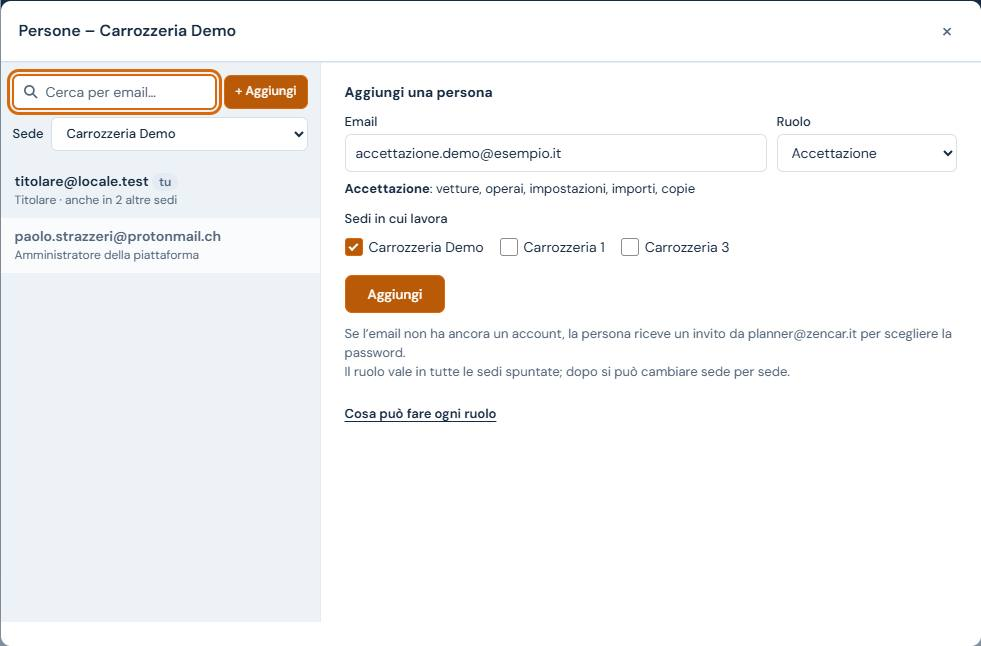
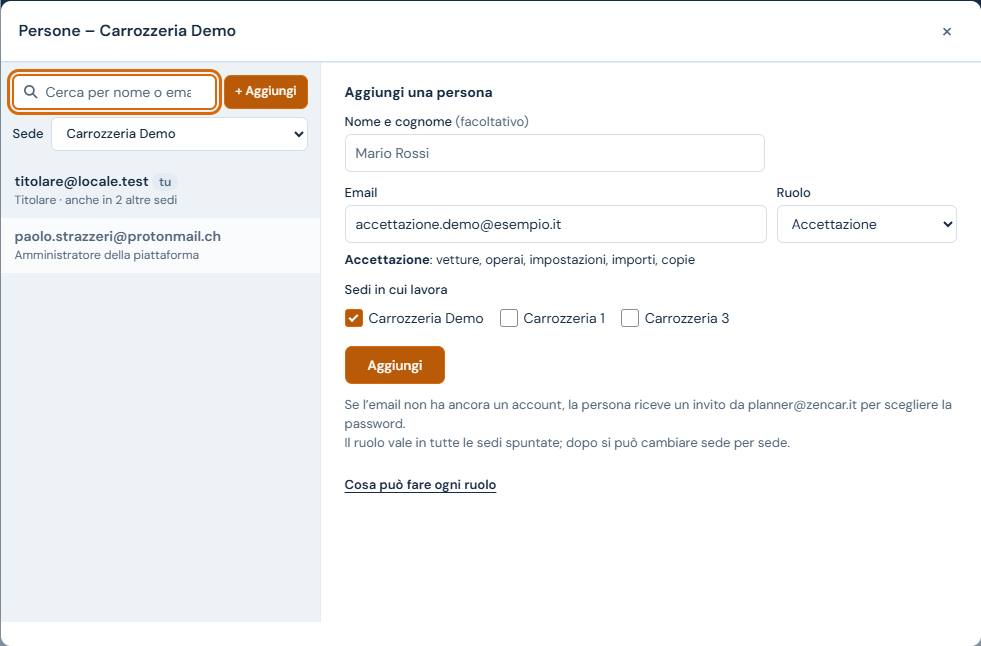
Planner 0.26.0: nome delle persone, simulazione dei ruoli per l'amministratore

diff --git a/planner/accesso.js b/planner/accesso.js
@@ -34,7 +34,10 @@ const Accesso = (() => {
     gestore: 'supervisiona dal Gestore e scrive i messaggi; nella carrozzeria vede tutto, importi compresi, senza modificare'
   };
   const PW_MIN = 10;
-  const S = { utente: null, voci: [], menu: null, modifica: null, msg: '', ok: '', admin: false };
+  const S = { utente: null, voci: [], menu: null, modifica: null, msg: '', ok: '', admin: false, nome: '', simula: '' };
+  // simulazione (2026-11-06): l'amministratore vede il planner come un altro ruolo, senza salvare; vale per la scheda del browser
+  const SIMULA = 'zencar-simula';
+  const simula = v => { try { if (v) sessionStorage.setItem(SIMULA, v); else sessionStorage.removeItem(SIMULA); } catch (e) { } location.reload(); };
   const esc = s => String(s ?? '').replace(/[&<>"']/g, c => ({ '&': '&amp;', '<': '&lt;', '>': '&gt;', '"': '&quot;', "'": '&#39;' }[c]));
   const indirizzo = () => location.origin + location.pathname;
   const voce = id => S.voci.find(s => s.id === id);
@@ -173,9 +176,10 @@ const Accesso = (() => {
 
   /* ---------------------------------------------- elenco delle carrozzerie */
   async function caricaElenco() {
-    const [{ data, error }, adm] = await Promise.all([sb.from('membri').select('ruolo, carrozzerie(id, numero, nome, eliminata_il)').eq('user_id', S.utente.id), sb.rpc('sono_amministratore')]);
+    const [{ data, error }, adm, nome] = await Promise.all([sb.from('membri').select('ruolo, carrozzerie(id, numero, nome, eliminata_il)').eq('user_id', S.utente.id), sb.rpc('sono_amministratore'), sb.rpc('mio_nome')]);
     if (error) throw error;
-    S.admin = adm.data === true;
+    S.admin = adm.data === true; S.nome = nome.data || '';
+    try { const r = sessionStorage.getItem(SIMULA) || ''; S.simula = S.admin && RUOLI[r] ? r : ''; } catch (e) { S.simula = ''; }
     S.voci = data.filter(r => r.carrozzerie).map(r => Object.assign({}, r.carrozzerie, { ruolo: r.ruolo }))
       .sort((a, b) => (a.numero ?? 1e9) - (b.numero ?? 1e9) || a.nome.localeCompare(b.nome, 'it'));
   }
@@ -413,7 +417,7 @@ const Accesso = (() => {
   /** Apre il planning della carrozzeria scelta. */
   function apri(id, sola = '') {
     const s = voce(id); if (!s || s.eliminata_il) return aggiorna();
-    s.sola = sola;
+    s.sola = sola; s.simula = S.simula;
     try { history.replaceState(null, '', location.pathname + location.search + '#c=' + id); } catch (e) { }
     if (box) { box.remove(); box = null; }
     if (ascolto) { sb.removeChannel(ascolto); ascolto = null; } // il gestore non ascolta più le versioni
@@ -450,13 +454,13 @@ const Accesso = (() => {
       dlgP.addEventListener('click', ev => {
         if (ev.target.closest('[data-x]')) { if (lasciaBozza()) dlgP.close(); return; } // niente chiusura con un clic sullo sfondo
         // il cursore resta sempre al posto giusto: sulla persona scelta, sul campo email, sulla prima spunta
-        const v = ev.target.closest('[data-psel]'); if (v) { if (v.dataset.psel !== P.scelta && lasciaBozza()) { P.scelta = v.dataset.psel; P.bozza = null; schedaPersone('', '', '.p-voce.on'); } return; }
+        const v = ev.target.closest('[data-psel]'); if (v) { if (v.dataset.psel !== P.scelta && lasciaBozza()) { P.scelta = v.dataset.psel; P.bozza = null; P.nome = null; schedaPersone('', '', '.p-voce.on'); } return; }
         // dalla ricerca senza risultati (2026-11-06): l'email cercata passa nel modulo, il cursore va sul ruolo
         const nu = ev.target.closest('[data-pnuova]');
         if (nu) { if (lasciaBozza()) { P.scelta = 'nuova'; P.bozza = null; P.email = nu.dataset.pemail || ''; schedaPersone('', '', P.email ? '.p-form [name=ruolo]' : '.p-form [name=email]'); } return; }
         if (ev.target.closest('[data-pvedi]')) { if (lasciaBozza()) { P.filtro = ''; P.bozza = null; schedaPersone('', '', '[data-pcerca]'); } return; }
         if (ev.target.closest('[data-ptutte]')) { const b = bozza(); if (b) { for (const c in b) b[c] = ''; schedaPersone('', '', '[data-psalva]'); } return; }
-        if (ev.target.closest('[data-pannulla]')) { P.bozza = null; return schedaPersone('', '', '[data-psede]'); }
+        if (ev.target.closest('[data-pannulla]')) { P.bozza = null; P.nome = null; return schedaPersone('', '', '[data-psede]'); }
         if (ev.target.closest('[data-psalva]')) return salvaBozza();
       });
       dlgP.addEventListener('change', ev => {
@@ -466,7 +470,10 @@ const Accesso = (() => {
         if (f) { if (!lasciaBozza()) { f.value = P.filtro; return; } P.filtro = f.value; P.bozza = null; if (!visibile(personaScelta())) P.scelta = primaVisibile(); return schedaPersone('', '', '[data-pfiltro]'); }
         if (ev.target.matches('.p-form [name=ruolo]')) { const s = ev.target.form.querySelector('[data-spiega]'); if (s) s.innerHTML = `<strong>${RUOLI[ev.target.value]}</strong>: ${esc(SPIEGA[ev.target.value])}`; }
       });
-      dlgP.addEventListener('input', ev => { if (ev.target.matches('[data-pcerca]')) { P.cerca = ev.target.value; filtraElenco(); } });
+      dlgP.addEventListener('input', ev => {
+        if (ev.target.matches('[data-pcerca]')) { P.cerca = ev.target.value; filtraElenco(); }
+        if (ev.target.matches('[data-pnome]')) { P.nome = ev.target.value; contaBozza(); }
+      });
       dlgP.addEventListener('submit', ev => { ev.preventDefault(); aggiungiPersona(ev.target); });
       dlgP.addEventListener('keydown', ev => ev.stopPropagation());
       dlgP.addEventListener('cancel', ev => { if (!lasciaBozza()) ev.preventDefault(); }); // Esc con modifiche non salvate
@@ -487,7 +494,7 @@ const Accesso = (() => {
     elenchi.forEach((r, i) => {
       if (r.error) throw r.error;
       for (const u of r.data) {
-        const p = persone.get(u.user_id) || { id: u.user_id, email: u.email, attivo: u.attivo, admin: u.amministratore, ruoli: {} };
+        const p = persone.get(u.user_id) || { id: u.user_id, email: u.email, nome: u.nome || '', attivo: u.attivo, admin: u.amministratore, ruoli: {} };
         p.ruoli[sedi[i].id] = u.ruolo; p.attivo = p.attivo || u.attivo; persone.set(u.user_id, p);
       }
     });
@@ -532,11 +539,15 @@ const Accesso = (() => {
     return P.bozza;
   }
   const modifiche = () => { const p = personaScelta(); return !p || !P.bozza ? [] : P.dati.sedi.filter(s => (P.bozza[s.id] || '') !== (p.ruoli[s.id] || '')); };
+  // nome in bozza (2026-11-06): undefined = non cambiato
+  const nomeNuovo = () => { const p = personaScelta(); if (!p || P.nome == null) return undefined; const t = P.nome.trim().replace(/\s+/g, ' '); return t === (p.nome || '') ? undefined : t; };
+  const daSalvare = () => modifiche().length + (nomeNuovo() === undefined ? 0 : 1);
+  const chiE = p => p.nome ? p.nome + ' (' + p.email + ')' : p.email;
   // modifiche non salvate: una sola domanda, che dice chiaramente cosa succede con «OK»
   function lasciaBozza() {
-    const n = modifiche().length; if (!n) return true;
+    const n = daSalvare(); if (!n) return true;
     if (!confirm(domandaScarta(n, (personaScelta() || {}).email))) return false;
-    P.bozza = null; return true;
+    P.bozza = null; P.nome = null; return true;
   }
   const ruoliTutti = () => `<details class="u-ruoli"><summary>Cosa può fare ogni ruolo</summary><dl>${Object.entries(SPIEGA).map(([k, t]) => `<dt>${RUOLI[k]}</dt><dd>${esc(t)}</dd>`).join('')}</dl></details>`;
   function schedaPersone(msg = '', ok = '', fuoco = '') {
@@ -546,12 +557,13 @@ const Accesso = (() => {
     // la sede del filtro (o l'unica) in cima alla scheda
     const sediOrd = P.filtro ? [...d.sedi.filter(s => s.id === P.filtro), ...d.sedi.filter(s => s.id !== P.filtro)] : d.sedi;
     const elenco = d.persone.filter(visibile).map(p => `<button type="button" class="p-voce${p.id === P.scelta ? ' on' : ''}${p.admin ? ' admin' : ''}" data-psel="${p.id}"${p.id === P.scelta ? ' aria-current="true"' : ''}>
-        <span class="p-nome">${esc(p.email)}${p.id === S.utente.id ? ' <span class="u-tu">tu</span>' : ''}</span><span class="p-ria">${esc(riassunto(p, d.sedi))}</span></button>`).join('');
+        <span class="p-nome">${esc(p.nome || p.email)}${p.id === S.utente.id ? ' <span class="u-tu">tu</span>' : ''}</span>${p.nome ? `<span class="p-mail2">${esc(p.email)}</span>` : ''}<span class="p-ria">${esc(riassunto(p, d.sedi))}</span></button>`).join('');
     let destra;
     if (P.scelta === 'nuova') {
       // ordine: chi, con quale ruolo, in quali sedi, poi «Aggiungi»; con il filtro (o una sola sede) la sede è già spuntata
       const spuntata = s => una || s.id === P.filtro;
       destra = `<form class="p-form" novalidate aria-labelledby="pNuova"><h4 id="pNuova">Aggiungi una persona</h4>
+        <label class="p-nomecampo"><span>Nome e cognome <span class="p-fac">(facoltativo)</span></span><input type="text" name="nome" maxlength="80" autocomplete="off" placeholder="Mario Rossi"></label>
         <div class="p-campi2"><label>Email<input type="email" name="email" maxlength="200" required autocomplete="off" placeholder="nome@esempio.it" value="${esc(P.email)}"></label>
         <label>Ruolo<select name="ruolo">${ruoliOpz('accettazione')}</select></label></div>
         <p class="u-spiega" data-spiega aria-live="polite"><strong>${RUOLI.accettazione}</strong>: ${esc(SPIEGA.accettazione)}</p>
@@ -560,14 +572,15 @@ const Accesso = (() => {
         <p class="lnote">Se l’email non ha ancora un account, la persona riceve un invito da planner@zencar.it per scegliere la password.${una ? '' : '<br>Il ruolo vale in tutte le sedi spuntate; dopo si può cambiare sede per sede.'}</p>
         ${ruoliTutti()}</form>`;
     } else {
-      const p = d.persone.find(x => x.id === P.scelta), b = bozza() || p.ruoli, cambiate = new Set(modifiche().map(s => s.id));
+      const p = d.persone.find(x => x.id === P.scelta), b = bozza() || p.ruoli, cambiate = new Set(modifiche().map(s => s.id)), nn = nomeNuovo(), tot = cambiate.size + (nn === undefined ? 0 : 1);
       const usati = [...new Set(d.sedi.map(s => b[s.id]).filter(Boolean))];
       const base = usati[0] || 'accettazione';
       // la bozza lascia la persona senza nessuna sede: lo si dice chiaramente e «Salva» diventa «Togli l'accesso»
       const senzaSedi = !p.admin && !usati.length && d.sedi.some(s => p.ruoli[s.id]);
       const stato = p.attivo ? '<span class="u-stato attivo">Attivo</span>' : '<span class="u-stato attesa">Invito in attesa</span>';
-      destra = `<div class="p-testa"><span class="p-ini" aria-hidden="true">${esc(p.email.charAt(0).toUpperCase())}</span><div><h4 class="p-mail">${esc(p.email)}</h4>${stato}${p.id === S.utente.id ? ' <span class="u-tu">tu</span>' : ''}</div></div>
+      destra = `<div class="p-testa"><span class="p-ini" aria-hidden="true">${esc(p.email.charAt(0).toUpperCase())}</span><div><h4 class="p-mail">${esc(p.nome || p.email)}</h4>${p.nome ? `<span class="p-mail2">${esc(p.email)}</span>` : ''}${stato}${p.id === S.utente.id ? ' <span class="u-tu">tu</span>' : ''}</div></div>
         ${p.admin ? '<p class="p-nota">Amministratore della piattaforma: titolare di tutte le carrozzerie, non modificabile.</p>' : `
+        <label class="p-nomecampo">Nome e cognome<input type="text" data-pnome="1" maxlength="80" autocomplete="off" placeholder="Mario Rossi" value="${esc(P.nome == null ? p.nome || '' : P.nome)}">${nn === undefined ? '' : '<span class="p-dasalvare">nome da salvare</span>'}</label>
         <section class="p-sez" aria-labelledby="pSedi"><h4 id="pSedi">${una ? 'Accesso' : 'Sedi in cui lavora'}</h4><div class="p-righe">
         ${sediOrd.map(s => { const r = b[s.id], o = p.ruoli[s.id], ca = cambiate.has(s.id);
           // cosa cambia, detto per esteso: «Gestore → Titolare», «da aggiungere», «da togliere»
@@ -579,19 +592,24 @@ const Accesso = (() => {
         ${usati.length ? `<div class="p-spiega">${usati.map(r => `<p><strong>${RUOLI[r]}</strong>: ${esc(SPIEGA[r])}</p>`).join('')}</div>` : ''}
         ${ruoliTutti()}
         <div class="p-piede"><p class="lnote">${una ? 'Scegli il ruolo o togli la spunta per togliere l’accesso, poi premi «Salva».' : 'Spunta le sedi e scegli il ruolo in ciascuna, poi premi «Salva».'}</p>
-        <div class="p-azioni"><span class="p-conta" aria-live="polite">${cambiate.size ? (cambiate.size === 1 ? '1 modifica da salvare' : cambiate.size + ' modifiche da salvare') : ''}</span>
-        <button type="button" class="btn" data-pannulla="1"${cambiate.size ? '' : ' disabled'}>Annulla</button><button type="button" class="btn ${senzaSedi ? 'p-togli' : 'pri'}" data-psalva="1"${cambiate.size ? '' : ' disabled'}>${senzaSedi ? 'Togli l’accesso' : 'Salva'}</button></div></div>`}`;
+        <div class="p-azioni"><span class="p-conta" aria-live="polite">${tot ? (tot === 1 ? '1 modifica da salvare' : tot + ' modifiche da salvare') : ''}</span>
+        <button type="button" class="btn" data-pannulla="1"${tot ? '' : ' disabled'}>Annulla</button><button type="button" class="btn ${senzaSedi ? 'p-togli' : 'pri'}" data-psalva="1"${tot ? '' : ' disabled'}>${senzaSedi ? 'Togli l’accesso' : 'Salva'}</button></div></div>`}`;
     }
     const filtro = una ? '' : `<label class="p-filtro"><span>Sede</span><select data-pfiltro="1"><option value="">Tutte le sedi</option>${d.sedi.map(s => `<option value="${s.id}"${s.id === P.filtro ? ' selected' : ''}>${esc(s.nome)}</option>`).join('')}</select></label>`;
     dlgP.querySelector('.dh h3').textContent = una ? 'Persone – ' + d.sedi[0].nome : nomeFiltro ? 'Persone – ' + nomeFiltro : 'Persone';
     dlgP.querySelector('.db').innerHTML = `${msg ? `<p class="lerr" role="alert">${esc(msg)}</p>` : ''}${ok ? `<p class="lok" role="status">${esc(ok)}</p>` : ''}
-      <div class="p-due"><div class="p-elenco"><div class="p-cerca"><label class="p-q"><span class="p-nasc">Cerca</span><svg class="p-lente" viewBox="0 0 16 16" aria-hidden="true" focusable="false"><circle cx="6.8" cy="6.8" r="4.8"/><path d="m10.4 10.4 4 4"/></svg><input type="search" data-pcerca="1" placeholder="Cerca per email…" value="${esc(P.cerca)}" autocomplete="off"></label>
+      <div class="p-due"><div class="p-elenco"><div class="p-cerca"><label class="p-q"><span class="p-nasc">Cerca</span><svg class="p-lente" viewBox="0 0 16 16" aria-hidden="true" focusable="false"><circle cx="6.8" cy="6.8" r="4.8"/><path d="m10.4 10.4 4 4"/></svg><input type="search" data-pcerca="1" placeholder="Nome o email…" value="${esc(P.cerca)}" autocomplete="off"></label>
         <button type="button" class="btn sm pri" data-pnuova="1">+ Aggiungi</button>${filtro}</div><div class="p-lista">${elenco}<p class="p-vuoto" hidden></p></div></div>
       <div class="p-scheda">${destra}</div></div>`;
     filtraElenco();
     const f = fuoco && dlgP.querySelector(fuoco); if (f) f.focus();
   }
   const personaScelta = () => P.dati && P.dati.persone.find(x => x.id === P.scelta);
+  // conteggio e pulsanti aggiornati mentre si scrive il nome
+  function contaBozza() {
+    const t = daSalvare(), c = dlgP.querySelector('.p-conta'); if (c) c.textContent = t ? (t === 1 ? '1 modifica da salvare' : t + ' modifiche da salvare') : '';
+    dlgP.querySelectorAll('[data-pannulla], [data-psalva]').forEach(x => { x.disabled = !t; });
+  }
   function sedeSiNo(chk) {
     const b = bozza(); if (!b) return;
     const c = chk.dataset.psede, sel = dlgP.querySelector(`[data-pruolo="${c}"]`);
@@ -604,15 +622,16 @@ const Accesso = (() => {
     schedaPersone('', '', `[data-pruolo="${sel.dataset.pruolo}"]`);
   }
   async function salvaBozza() {
-    const p = personaScelta(), lista = modifiche(); if (!p || !lista.length) return;
+    const p = personaScelta(), lista = modifiche(), nn = nomeNuovo(); if (!p || (!lista.length && nn === undefined)) return;
     const io = p.id === S.utente.id;
     // l'unica domanda: chi toglie a sé stesso il ruolo di titolare in una sede perde la gestione di quella sede
     const perdo = io ? lista.filter(s => p.ruoli[s.id] === 'titolare' && P.bozza[s.id] !== 'titolare') : [];
     if (perdo.length && !confirm('Non sarai più titolare di ' + perdo.map(s => s.nome).join(', ') + ': non potrai più gestirne utenti e impostazioni. Continuare?')) return;
-    const fatto = { aggiunta: [], tolta: [], ruolo: [] };
+    const fatto = { aggiunta: [], tolta: [], ruolo: [], nome: false };
     dlgP.querySelectorAll('.p-azioni button').forEach(x => { x.disabled = true; });
     const salva = dlgP.querySelector('[data-psalva]'); if (salva) salva.textContent = 'Salvataggio…';
     try {
+      if (nn !== undefined) { const { error } = await sb.rpc('imposta_nome', { u: p.id, n: nn }); if (error) throw error; fatto.nome = true; P.nome = null; }
       for (const s of lista) {
         const prima = p.ruoli[s.id] || '', dopo = P.bozza[s.id] || '';
         if (!prima) { await chiamaFunzione('utenti', { carrozzeria_id: s.id, email: p.email, ruolo: dopo, indirizzo: indirizzo() }); fatto.aggiunta.push(s.nome); }
@@ -625,16 +644,16 @@ const Accesso = (() => {
       }
       P.bozza = null;
       if (perdo.length || (io && fatto.tolta.length)) { dlgP.close(); return aggiorna(); }
-      const parti = [fatto.aggiunta.length && 'aggiunto a ' + fatto.aggiunta.join(', '), fatto.tolta.length && 'tolto da ' + fatto.tolta.join(', '), fatto.ruolo.length && 'ruolo cambiato in ' + fatto.ruolo.join(', ')].filter(Boolean);
-      ricaricaPersone('', 'Salvato: ' + p.email + ' ' + parti.join('; ') + '.');
+      const parti = [fatto.nome && (nn ? 'nome «' + nn + '»' : 'nome tolto'), fatto.aggiunta.length && 'aggiunto a ' + fatto.aggiunta.join(', '), fatto.tolta.length && 'tolto da ' + fatto.tolta.join(', '), fatto.ruolo.length && 'ruolo cambiato in ' + fatto.ruolo.join(', ')].filter(Boolean);
+      ricaricaPersone('', 'Salvato: ' + p.email + ': ' + parti.join('; ') + '.');
     } catch (e) {
       // la bozza resta: dopo la rilettura contano come modifiche solo le sedi non ancora salvate
       const m = e.message || '';
-      ricaricaPersone((fatto.aggiunta.length + fatto.tolta.length + fatto.ruolo.length ? 'Salvato solo in parte; il resto è ancora da salvare. ' : '') + (/almeno un titolare/i.test(m) ? 'ogni carrozzeria deve avere almeno un titolare.' : /amministratore/i.test(m) ? 'l’amministratore non può cambiare ruolo né essere rimosso.' : testoErrore(e)));
+      ricaricaPersone((fatto.nome || fatto.aggiunta.length + fatto.tolta.length + fatto.ruolo.length ? 'Salvato solo in parte; il resto è ancora da salvare. ' : '') + (/almeno un titolare/i.test(m) ? 'ogni carrozzeria deve avere almeno un titolare.' : /amministratore/i.test(m) ? 'l’amministratore non può cambiare ruolo né essere rimosso.' : testoErrore(e)));
     }
   }
   async function aggiungiPersona(form) {
-    const campi = new FormData(form), email = String(campi.get('email') || '').trim(), ruolo = String(campi.get('ruolo')), sedi = campi.getAll('sede').map(String);
+    const campi = new FormData(form), nome = String(campi.get('nome') || '').trim().replace(/\s+/g, ' '), email = String(campi.get('email') || '').trim(), ruolo = String(campi.get('ruolo')), sedi = campi.getAll('sede').map(String);
     // errori accanto al campo, senza ridisegnare: quanto scritto resta
     if (!/^[^\s@]+@[^\s@]+\.[^\s@]+$/.test(email)) return erroreCampo(form, form.querySelector('[name=email]'), 'Scrivi un’email valida.');
     if (!sedi.length) return erroreCampo(form, form.querySelector('.p-sedi'), 'Spunta almeno una sede.');
@@ -644,6 +663,8 @@ const Accesso = (() => {
     try {
       // una sede alla volta: la prima invita (se serve), le altre aggiungono la persona già registrata
       for (const c of sedi) { const r = await chiamaFunzione('utenti', { carrozzeria_id: c, email, ruolo, indirizzo: indirizzo() }); invitato = invitato || r.esito === 'invitato'; fatte++; }
+      // il nome si scrive quando la persona è nella sede (lo permette il database solo a chi è titolare di una sua sede)
+      if (nome) { const d = await leggiPersone(), q = d.persone.find(x => x.email.toLowerCase() === email.toLowerCase()); if (q) await sb.rpc('imposta_nome', { u: q.id, n: nome }); }
       P.email = ''; ricaricaPersone('', (invitato ? 'Invito inviato a ' + email + '. ' : '') + email + ' aggiunto come ' + RUOLI[ruolo] + (sedi.length > 1 ? ' in ' + fatte + ' sedi.' : '.'), email);
     } catch (e) {
       if (fatte) return ricaricaPersone('Aggiunto in ' + fatte + (fatte === 1 ? ' sede' : ' sedi') + ', poi: ' + testoErrore(e), '', email);
@@ -660,6 +681,7 @@ const Accesso = (() => {
   const ESCI = '<svg width="16" height="16" viewBox="0 0 24 24" fill="none" stroke="currentColor" stroke-width="2" stroke-linecap="round" stroke-linejoin="round" aria-hidden="true"><path d="M9 21H5a2 2 0 0 1-2-2V5a2 2 0 0 1 2-2h4"/><path d="m16 17 5-5-5-5"/><path d="M21 12H9"/></svg>';
   // ruolo e dove (2026-11-05): l'email, spesso lunga, si legge passando con il mouse (title) e la sente il lettore di schermo
   function chiSono() {
+    if (S.simula) return { ruolo: RUOLI[S.simula] + ' · simulazione', dove: sedeAperta ? sedeAperta.nome : 'Simulazione' };
     if (sedeAperta) return { ruolo: S.admin ? 'Amministratore' : RUOLI[sedeAperta.ruolo] || '', dove: sedeAperta.nome };
     if (S.admin) return { ruolo: 'Amministratore', dove: 'tutte le carrozzerie' };
     const v = vive(), ruoli = [...new Set(v.map(s => s.ruolo))];
@@ -669,12 +691,15 @@ const Accesso = (() => {
     if (!S.utente) return togliConto();
     if (!conto) {
       conto = document.createElement('div'); conto.id = 'conto';
-      conto.addEventListener('click', ev => { if (ev.target.closest('[data-conto]')) { ev.stopPropagation(); apriMenuConto(!menuConto); } });
+      // in simulazione l'icona riporta subito alle piene funzioni di amministratore
+      conto.addEventListener('click', ev => { if (ev.target.closest('[data-conto]')) { ev.stopPropagation(); if (S.simula) return simula(''); apriMenuConto(!menuConto); } });
       conto.addEventListener('keydown', ev => { ev.stopPropagation(); if (ev.key === 'ArrowDown' && !menuConto) { ev.preventDefault(); apriMenuConto(true); } });
     }
-    const email = S.utente.email || '', chi = chiSono();
-    conto.innerHTML = `<button type="button" class="conto-btn" data-conto="1" aria-haspopup="menu" aria-expanded="${!!menuConto}" aria-controls="menuConto" title="${esc(email)}" aria-label="Account ${esc(email)}, ${esc(chi.ruolo)}">
-      <span class="conto-ini" aria-hidden="true">${esc(email.charAt(0).toUpperCase())}</span><span class="conto-ruolo" aria-hidden="true">${esc(chi.ruolo)}</span>${FRECCIA}</button>`;
+    const email = S.utente.email || '', chi = chiSono(), ini = (S.nome || email).charAt(0).toUpperCase();
+    conto.innerHTML = S.simula ? `<button type="button" class="conto-btn simula" data-conto="1" title="Simulazione: ${esc(RUOLI[S.simula])}. Clic per tornare amministratore" aria-label="Simulazione del ruolo ${esc(RUOLI[S.simula])}: torna amministratore">
+      <span class="conto-ini" aria-hidden="true">${esc(ini)}</span><span class="conto-ruolo" aria-hidden="true">${esc(chi.ruolo)}</span><span class="conto-torna">Torna amministratore</span></button>`
+      : `<button type="button" class="conto-btn" data-conto="1" aria-haspopup="menu" aria-expanded="${!!menuConto}" aria-controls="menuConto" title="${esc(S.nome ? S.nome + ' – ' + email : email)}" aria-label="Account ${esc(email)}, ${esc(chi.ruolo)}">
+      <span class="conto-ini" aria-hidden="true">${esc(ini)}</span><span class="conto-ruolo" aria-hidden="true">${esc(chi.ruolo)}</span>${FRECCIA}</button>`;
     // nella pagina delle carrozzerie scorre con la pagina (che sta sopra a tutto); nel planner resta fermo in alto
     const dove = !sedeAperta && box && box.isConnected ? box : document.body; if (conto.parentNode !== dove) dove.appendChild(conto);
     document.body.classList.toggle('con-planner', !!sedeAperta);
@@ -684,14 +709,17 @@ const Accesso = (() => {
     if (!si) return chiudiMenuConto(true);
     menuConto = document.createElement('div'); menuConto.id = 'menuConto'; menuConto.setAttribute('role', 'menu'); menuConto.setAttribute('aria-label', 'Account');
     const email = S.utente.email || '', chi = chiSono();
-    menuConto.innerHTML = `<div class="mc-chi" title="${esc(email)}"><span class="conto-ini grande" aria-hidden="true">${esc(email.charAt(0).toUpperCase())}</span>
-      <div><span class="mc-nasc">Account ${esc(email)}: </span><b>${esc(chi.ruolo)}</b><span>${esc(chi.dove)}</span></div></div>
-      <button type="button" role="menuitem" class="mc-voce" data-conto-esci="1">${ESCI}Esci</button>`;
+    // l'amministratore, dentro una carrozzeria, può vedere il planner come gli altri ruoli (le modifiche non si salvano)
+    const vediCome = S.admin && sedeAperta ? `<div class="mc-sez" role="group" aria-label="Vedi il planner come"><span class="mc-tit">Vedi il planner come</span>${Object.entries(RUOLI).map(([k, t]) => `<button type="button" role="menuitem" class="mc-voce mc-ruolo" data-simula="${k}">${esc(t)}</button>`).join('')}<span class="mc-nota">Solo per vedere: le modifiche non si salvano. Clic sull’icona per tornare amministratore.</span></div>` : '';
+    menuConto.innerHTML = `<div class="mc-chi" title="${esc(email)}"><span class="conto-ini grande" aria-hidden="true">${esc((S.nome || email).charAt(0).toUpperCase())}</span>
+      <div><span class="mc-nasc">Account ${esc(email)}: </span>${S.nome ? `<b class="mc-nome">${esc(S.nome)}</b>` : ''}<b>${esc(chi.ruolo)}</b><span>${esc(chi.dove)}</span></div></div>
+      ${vediCome}<button type="button" role="menuitem" class="mc-voce" data-conto-esci="1">${ESCI}Esci</button>`;
     conto.appendChild(menuConto);
     conto.querySelector('[data-conto]').setAttribute('aria-expanded', 'true');
     menuConto.addEventListener('click', async ev => {
       ev.stopPropagation();
-      if (ev.target.closest('[data-conto-esci]')) { try { history.replaceState(null, '', location.pathname + location.search); } catch (e) { } await sb.auth.signOut(); location.reload(); }
+      const r = ev.target.closest('[data-simula]'); if (r) return simula(r.dataset.simula);
+      if (ev.target.closest('[data-conto-esci]')) { try { sessionStorage.removeItem(SIMULA); } catch (e) { } try { history.replaceState(null, '', location.pathname + location.search); } catch (e) { } await sb.auth.signOut(); location.reload(); }
     });
     menuConto.addEventListener('keydown', ev => {
       const voci = [...menuConto.querySelectorAll('[role=menuitem]')], i = voci.indexOf(document.activeElement);

diff --git a/planner/accesso.css b/planner/accesso.css
@@ -391,3 +391,20 @@ body.con-planner .conto-btn { padding: 0 3px; }
 #dlgPersone .p-lente { position: absolute; left: 10px; width: 15px; height: 15px; fill: none; stroke: var(--muted); stroke-width: 1.8; stroke-linecap: round; pointer-events: none; }
 #dlgPersone .p-cerca input[type=search] { padding-left: 32px; }
 #dlgPersone .p-vuoto .btn { display: block; margin-top: 8px; max-width: 100%; overflow: hidden; text-overflow: ellipsis; white-space: nowrap; }
+/* nome delle persone (2026-11-06): nome sopra, email sotto; campo del nome nella scheda e nel modulo */
+#dlgPersone .p-mail2 { display: block; font-size: 12.5px; color: var(--muted); overflow-wrap: anywhere; margin-bottom: 2px; }
+#dlgPersone .p-nomecampo { display: grid; gap: 4px; max-width: 420px; font: 500 13px var(--f, system-ui); color: var(--ink); }
+#dlgPersone .p-nomecampo input { width: 100%; height: 38px; box-sizing: border-box; border: 1px solid var(--line); border-radius: 6px; padding: 0 10px; background: var(--surface); color: var(--ink); font: 400 14px var(--f, system-ui); }
+#dlgPersone .p-nomecampo input:focus { border-color: var(--tape-chiaro); outline: none; box-shadow: 0 0 0 1px var(--tape-chiaro); }
+#dlgPersone .p-nomecampo .p-dasalvare { justify-self: start; margin-left: 0; }
+#dlgPersone .p-fac { font-weight: 400; color: var(--muted); }
+/* simulazione dei ruoli (2026-11-06): icona con l'anello ambra; un clic riporta all'amministratore */
+.conto-btn.simula { border: 2px solid #E9B90C; background: #FFF6DA; }
+.conto-btn.simula .conto-ini { background: #8A5A00; }
+.conto-torna { font-size: 12px; font-weight: 700; color: #8A5A00; white-space: nowrap; }
+body.con-planner .conto-btn.simula .conto-torna, body.con-planner .conto-btn.simula .conto-ruolo { display: none; }
+#menuConto .mc-sez { display: grid; gap: 2px; padding: 8px 6px; border-top: 1px solid var(--line); }
+#menuConto .mc-tit { font: 700 11px var(--f, system-ui); letter-spacing: .06em; text-transform: uppercase; color: var(--muted); padding: 2px 10px 4px; }
+#menuConto .mc-ruolo { padding-left: 14px; min-height: 36px; }
+#menuConto .mc-nota { font-size: 11.5px; color: var(--muted); padding: 4px 10px 0; line-height: 1.35; }
+#menuConto .mc-nome { display: block; }

diff --git a/planner/guscio.js b/planner/guscio.js
@@ -96,7 +96,7 @@ async function richiesta(eventi) {
     let vista = null; try { vista = JSON.parse(sessionStorage.getItem('vista') || 'null'); } catch (e) { }
     const prefs = {}; try { for (let i = 0; i < localStorage.length; i++) { const k = localStorage.key(i); if (/^planning-vista/.test(k)) prefs[k] = localStorage.getItem(k); } } catch (e) { }
     const corpo = { carrozzeria_id: C.voce.id, uiBase: C.uiBase || (C.primo && vista) || null, catena: C.catena, eventi, imp: C.imp, annulla: C.annulla,
-      impronte: C.impronte, primo: C.primo, sola: C.voce.sola || null, prefs, larghezza: innerWidth, altezza: innerHeight, ora: window.__ORA_FINTA || null };
+      impronte: C.impronte, primo: C.primo, sola: C.voce.sola || null, simula: C.voce.simula || null, prefs, larghezza: innerWidth, altezza: innerHeight, ora: window.__ORA_FINTA || null };
     const r = await fetch(window.CONFIG.url + '/functions/v1/planner', { method: 'POST', body: JSON.stringify(corpo),
       headers: { 'Content-Type': 'application/json', apikey: window.CONFIG.chiave, Authorization: 'Bearer ' + session.access_token } });
     const d = await r.json().catch(() => ({ errore: 'Risposta non leggibile dal server.' }));

diff --git a/planner/planning.css b/planner/planning.css
@@ -1242,3 +1242,5 @@ input[type=checkbox].sw:focus-visible{outline:2px solid var(--tape-chiaro);outli
 .manuale .mcorpo{display:grid;gap:22px}
 .manuale section.capitolo{scroll-margin-top:90px}
 .manuale .mdopo{justify-self:end}
+/* simulazione dei ruoli dell'amministratore (2026-11-06) */
+.solaconsulta.simula{border-color:#E9B90C;background:#FFF6DA;color:#8A5A00}
